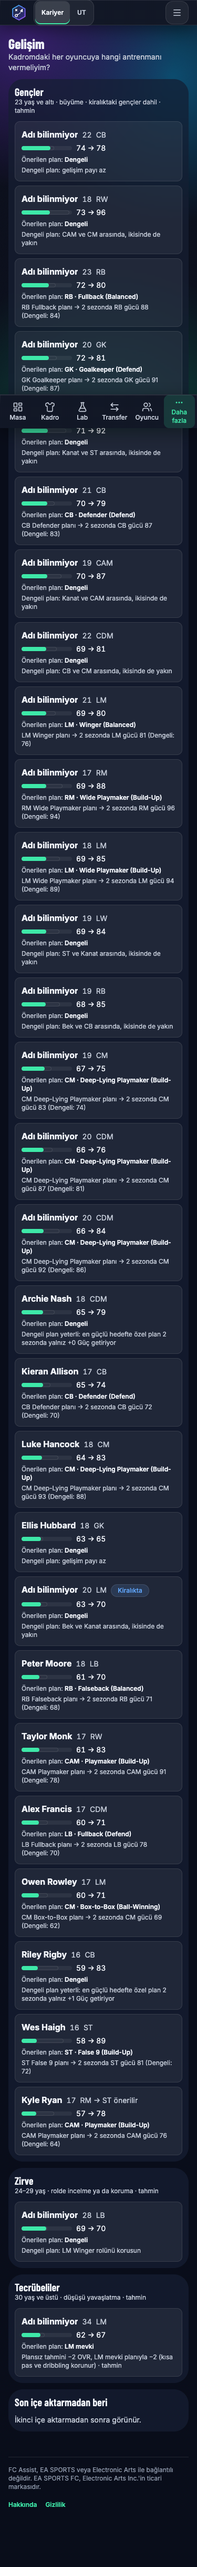
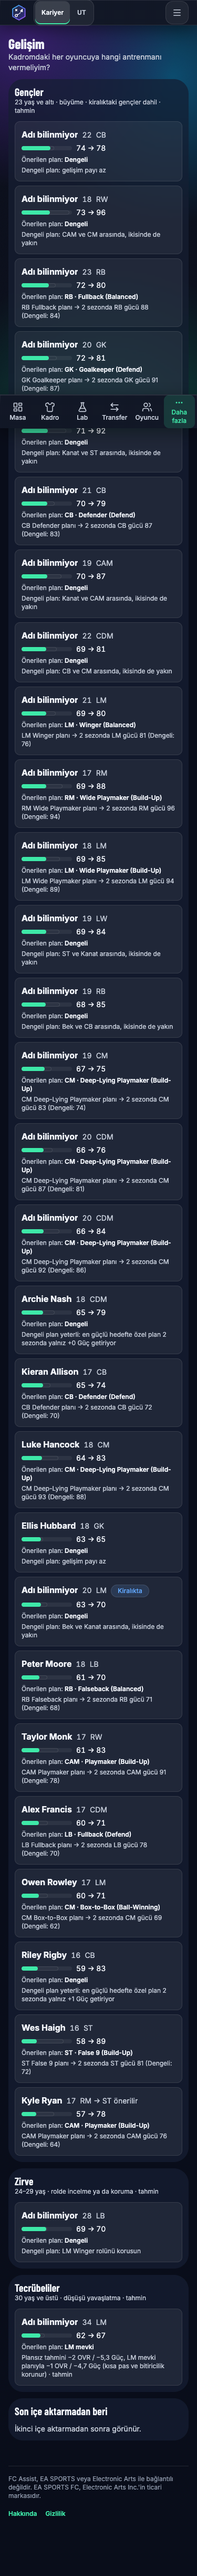
GT-a düzeltmesi: tecrübeli gerekçesi OVR ve Güç farkıyla; Gelişim görüntüleri yeni metinle

diff --git a/src/features/growth/growthPage.test.tsx b/src/features/growth/growthPage.test.tsx
@@ -23,7 +23,7 @@ const youth = (id: number, extra: Partial<AcademyPlayer> = {}): AcademyPlayer =>
 })
 const VETERAN = youth(21, {
   name: 'Vardy', age: 34, overall: 80, potential: 80, conversionPosition: null, bestPosition: 'ST', ageGroup: 'VETERAN',
-  plan: { name: 'Poacher', label: 'ST · Poacher', text: 'Vardy · Plansız tahmini −3 OVR, ST · Poacher planıyla −1 (bitiricilik ve pozisyon alma korunur) · tahmin', balanced: false },
+  plan: { name: 'Poacher', label: 'ST · Poacher', text: 'Vardy · Plansız tahmini −3 OVR / −2,6 Güç, ST · Poacher planıyla −1 OVR / −1,2 Güç (bitiricilik ve pozisyon alma korunur) · tahmin', balanced: false },
 })
 const PEAK = youth(31, {
   name: 'Okafor', age: 26, overall: 74, potential: 76, conversionPosition: null, ageGroup: 'PEAK',
@@ -146,7 +146,7 @@ describe('Gelişim (sade)', () => {
     const veterans = within(screen.getByRole('region', { name: 'Tecrübeliler' }))
     const row = veterans.getByRole('button', { name: /Vardy/ })
     expect(row).toHaveTextContent('Önerilen plan: ST · Poacher')
-    expect(row).toHaveTextContent('Plansız tahmini −3 OVR, ST · Poacher planıyla −1 (bitiricilik ve pozisyon alma korunur) · tahmin')
+    expect(row).toHaveTextContent('Plansız tahmini −3 OVR / −2,6 Güç, ST · Poacher planıyla −1 OVR / −1,2 Güç (bitiricilik ve pozisyon alma korunur) · tahmin')
     expect(row.textContent).not.toContain('Vardy · ')
     // Adı bilinmeyen oyuncu: sunucu metni ham adla başlar ("Oyuncu #…"); satırda o da tekrar edilmez.
     expect(peak.getByRole('button', { name: /Okafor/ }).textContent).not.toContain('Okafor · ')
@@ -154,10 +154,10 @@ describe('Gelişim (sade)', () => {
   })
 
   it('gerekçe ham adla başlasa da (adı bilinmeyen oyuncu) satırda ad kırpılır', async () => {
-    vi.mocked(endpoints.training).mockResolvedValue([{ ...VETERAN, name: 'Adı bilinmiyor', plan: { ...VETERAN.plan!, text: 'Oyuncu #202017 · Plansız tahmini −2 OVR, LM mevki planıyla −2 · tahmin' } }])
+    vi.mocked(endpoints.training).mockResolvedValue([{ ...VETERAN, name: 'Adı bilinmiyor', plan: { ...VETERAN.plan!, text: 'Oyuncu #202017 · Plansız tahmini −2 OVR / −5,3 Güç, LM mevki planıyla −1 OVR / −4,7 Güç · tahmin' } }])
     renderPage()
     const row = await within(await screen.findByRole('region', { name: 'Tecrübeliler' })).findByRole('button', { name: /Adı bilinmiyor/ })
-    expect(row).toHaveTextContent('Plansız tahmini −2 OVR, LM mevki planıyla −2 · tahmin')
+    expect(row).toHaveTextContent('Plansız tahmini −2 OVR / −5,3 Güç, LM mevki planıyla −1 OVR / −4,7 Güç · tahmin')
     expect(row.textContent).not.toContain('Oyuncu #202017')
   })
 
